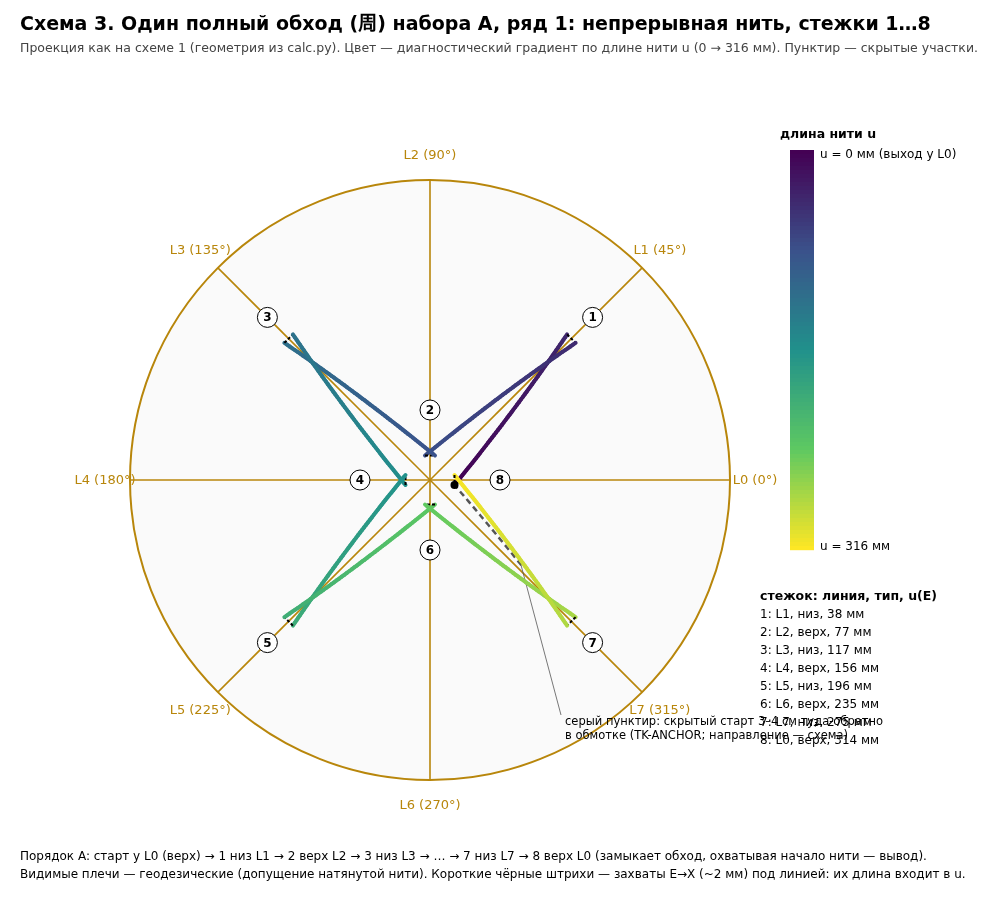
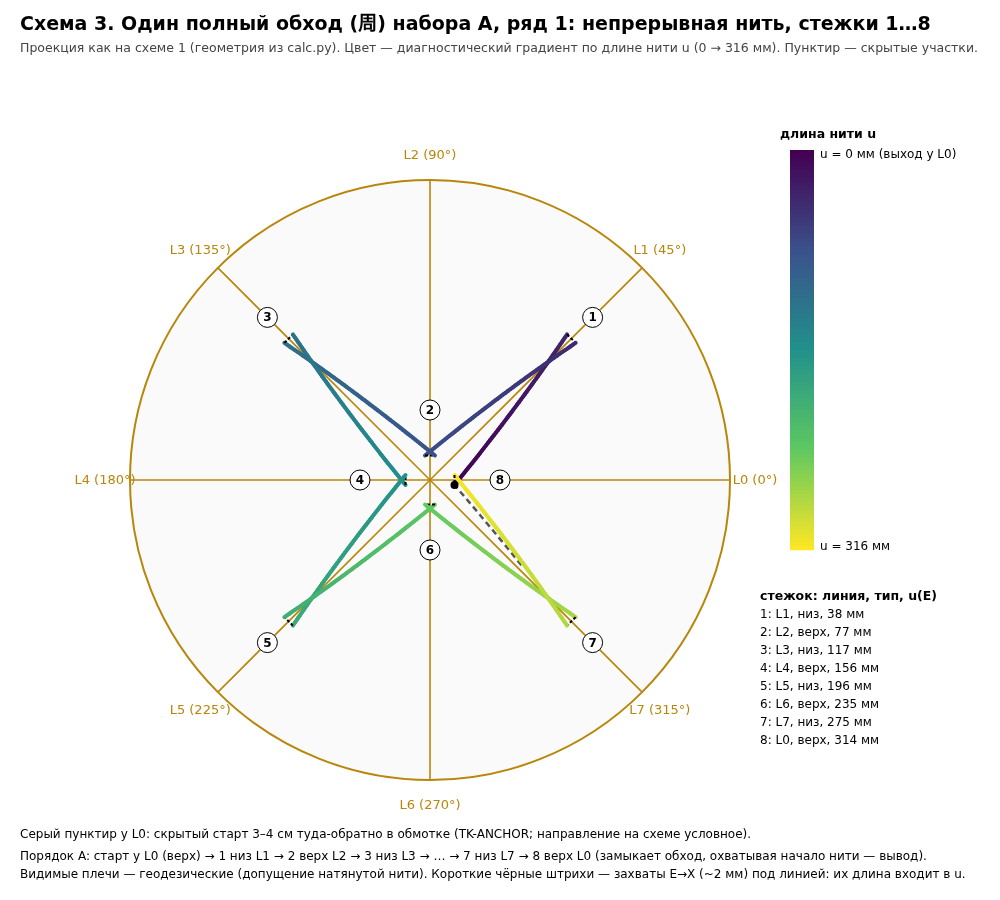
Decisions log; diagram label fixes (03, 04)

diff --git a/samples/kiku-s8/make_diagrams.py b/samples/kiku-s8/make_diagrams.py
@@ -159,9 +159,7 @@ def diagram3():
     Sst = C.point(s0 + 20, ph0 - 0.55)
     L.append(f'<polyline points="{poly(C.slerp(Sst, X0, 30), cx, cy)}" stroke="#555" stroke-width="2.5" fill="none" stroke-dasharray="6,4"/>')
     xs, ys = proj(Sst, cx, cy)
-    L.append(f'<line x1="{xs:.0f}" y1="{ys:.0f}" x2="{xs+40:.0f}" y2="{ys+150:.0f}" stroke="#555" stroke-width="0.8"/>')
-    L.append(f'<text x="{xs+44:.0f}" y="{ys+160:.0f}" font-size="11.5">серый пунктир: скрытый старт 3–4 см туда-обратно</text>')
-    L.append(f'<text x="{xs+44:.0f}" y="{ys+174:.0f}" font-size="11.5">в обмотке (TK-ANCHOR; направление — схема)</text>')
+    L.append(f'<text x="20" y="{H-62}" font-size="12">Серый пунктир у L0: скрытый старт 3–4 см туда-обратно в обмотке (TK-ANCHOR; направление на схеме условное).</text>')
     u = 0.0; cur = X0
     for st, a, b in zip(seq, arms, bites):
         pts = C.slerp(cur, st['E'], 60)
@@ -203,13 +201,13 @@ def diagram3():
 def diagram4():
     W, H = 1200, 870
     L = header(W, H, 'Схема 4. Наращивание рядов 1…N набора A (сектор L0–L2): смещение верхних и нижних точек',
-               'Проекция как на схеме 1, увеличено (8 px/мм), повёрнуто. Слева — правило «geom» (Δниза = w/sin α), справа — постоянный шаг 2 мм (TK-UWA). Числа из calc.py.')
-    sc = 8.0
+               'Проекция как на схеме 1, увеличено (7 px/мм), повёрнуто. Слева — правило «geom» (Δниза = w/sin α), справа — постоянный шаг 2 мм (TK-UWA). Числа из calc.py.')
+    sc = 7.0
     def panel(ox, oy, rule, title):
         P = []
         rows = C.rows_geometry(rule)
         rot = math.radians(90 - 45)   # линия L1 вертикально вверх
-        P.append(f'<text x="{ox-240}" y="{oy-470}" font-size="15" font-weight="bold">{title}</text>')
+        P.append(f'<text x="{ox-250}" y="78" font-size="15" font-weight="bold">{title}</text>')
         for k in (0, 1, 2):
             a = C.PHI[k] + rot
             P.append(f'<line x1="{ox}" y1="{oy}" x2="{ox+sc*62*math.cos(a):.1f}" y2="{oy-sc*62*math.sin(a):.1f}" stroke="{GOLD}" stroke-width="1.6"/>')
@@ -231,8 +229,8 @@ def diagram4():
         P.append(f'<text x="{ox-240}" y="{oy+40}" font-size="12">N = {n} рядов до экватора; верх: {rows[0]["s_top"]:.1f} → {last["s_top"]:.1f} мм;</text>')
         P.append(f'<text x="{ox-240}" y="{oy+56}" font-size="12">низ: {rows[0]["s_bot"]:.1f} → {last["s_bot"]:.1f} мм; угол кончика {rows[0]["tip_angle"]:.0f}° → {last["tip_angle"]:.0f}°.</text>')
         return P
-    L += panel(300, 610, 'geom', 'а) «geom»: ряды параллельны на расстоянии w у кончика')
-    L += panel(900, 610, 'fixed', 'б) шаг низа 2 мм: по модели у кончика расстояние &lt; w')
+    L += panel(290, 600, 'geom', 'а) «geom»: ряды параллельны на расстоянии w у кончика')
+    L += panel(890, 600, 'fixed', 'б) шаг низа 2 мм: по модели у кончика расстояние &lt; w')
     L.append(f'<text x="20" y="{H-50}" font-size="12">Толщина линий ≈ w = {C.w} мм в масштабе. Цвет — номер ряда (фиолетовый = 1). Ряды набора B (повёрнуты на 45°) не показаны.</text>')
     L.append(f'<text x="20" y="{H-32}" font-size="12">Панель б) показывает противоречие модели «геодезическое плечо» с эмпирическим шагом 2 мм: реальная нить отклоняется от геодезической в пределах трения (geometry.md §7).</text>')
     L.append('</svg>')

diff --git a/decisions-log.md b/decisions-log.md
@@ -1,0 +1,21 @@
+# Журнал решений
+
+Все решения — 2026-09-24 (America/New_York), исполнитель stage 1. Формат: решение → основание → альтернативы → коммит.
+
+| # | Решение | Основание | Отклонённые альтернативы | Коммит |
+|---|---|---|---|---|
+| D1 | Базовый образец — кику S8 (八重菊, 2×4) в 上掛け千鳥かがり, параметры TemariKai GT14 | пошаговые фото и опоры GT14 + ToolKit; «基礎» у Sanuki; сопоставимость с prior newYurk/temari (#36, #86); японское подтверждение правил — Olympus TM-7 | Olympus TM-2 八重菊 (план по умолчанию): онлайн-страница TM-2 описывает только つむ型クロス; TM-7 古典菊: 16 делений, печатная инструкция не видна | d65bcc5 |
+| D2 | Olympus TM-7 = та же техника (два чередующихся набора, 上掛け у верха, «自然に交わる所» у низа), но НЕ сливать: 16 делений, одна нить, старт внизу, слабина | OLY-TM7-V субтитры; OLY-TM7-L | считать TM-7 отдельной техникой; считать её идентичной GT14 | 3f0fed9 (prior-project/state.md §7) |
+| D3 | Ход обхода против часовой снаружи полюса; игла против хода (E справа, X слева) | GT14, EAGLE, OLY-BASIC, MYJULIA | — | d65bcc5 |
+| D4 | Нижний шаг по правилу `geom` (уложи вплотную → коли в пересечении), `fixed 2 мм` — вариант сравнения | TK-STRETCH, OLY-TM7-V; совпадает с prior «pack then pierce» | 2 мм как основа (даёт нахлёст по геодезической модели; prior признал capacity=10 арифметикой) | d65bcc5 |
+| D5 | Плечи — геодезические как идеализация; дополнено конусом трения κ_g ≤ μκ_n | PHYS-GEODCURV, PHYS-SOFI2018; prior #101 | считать геодезическую форму предсказанием | d65bcc5 |
+| D6 | Физический слой — только соотношения; численные T, μ, сжатие не выдумывать; μ хлопка 0,32–0,52 — только порядок с источником | указание пользователя; PHYS-COTTON-MU (аннотация) | подставлять «типичные» μ без источника | d65bcc5, 3f0fed9 |
+| D7 | Две нити A/B с парковкой (GT14), вариант одной нити записан | GT14 | одна нить (OLY/EAGLE/MYJULIA) | 3f0fed9 |
+| D8 | Старт скрытым проходом 3,5 см + обратный ход; окончание так же | TK-ANCHOR; OLY-BASIC как вариант | узел (RU) | d65bcc5 |
+| D9 | Запас 120 мм на цвет — допущение без источника, помечено [A] | — | не учитывать | d65bcc5 |
+| D10 | Схемы строятся из той же геометрии calc.py (азимутальная равнопромежуточная проекция), PNG — Chrome headless | воспроизводимость | ручные рисунки | 9c7d3d2 |
+| D11 | Прочитаны issues/доки newYurk/temari, **код не читался**; правила prior сверены по пунктам (=/≠) | указание владелицы (через родителя) | игнорировать prior; читать код | 3f0fed9 |
+| D12 | В спецификацию добавлен слой «текстильная механика» (Peirce, Kemp, van Wyk, Kawabata/Durur, рост паковки, капстан) — законы как формы, числа prior — только начальные значения с диапазоном | TEX-BEHERA2012, TEX-VANWYK1946, TEX-GRAMSCH2022 открыты; Kawabata — аннотация; Durur — не открыт | переносить 0,28 мм / m^0,85 как константы | 3f0fed9 |
+| D13 | calc.py экспортирует явный путь нитей (`thread_path_north`: start/stitch/park/resume/finish, E/X, u) как вход stage 2 | prior #112: рецепт → путь одной нити → механика → рендер | строить stage 2 из рендера | 3f0fed9 |
+| D14 | Stage 2 — инкрементальное шитьё, одна нить = один баланс материала, рендер не вход механики | prior #112 | оконная механика | 3f0fed9 (next-stage.md) |
+| D15 | Правки схем 03/04 (подписи без наложений) и журнал решений | качество | — | см. `git log` (коммит «decisions log») |
